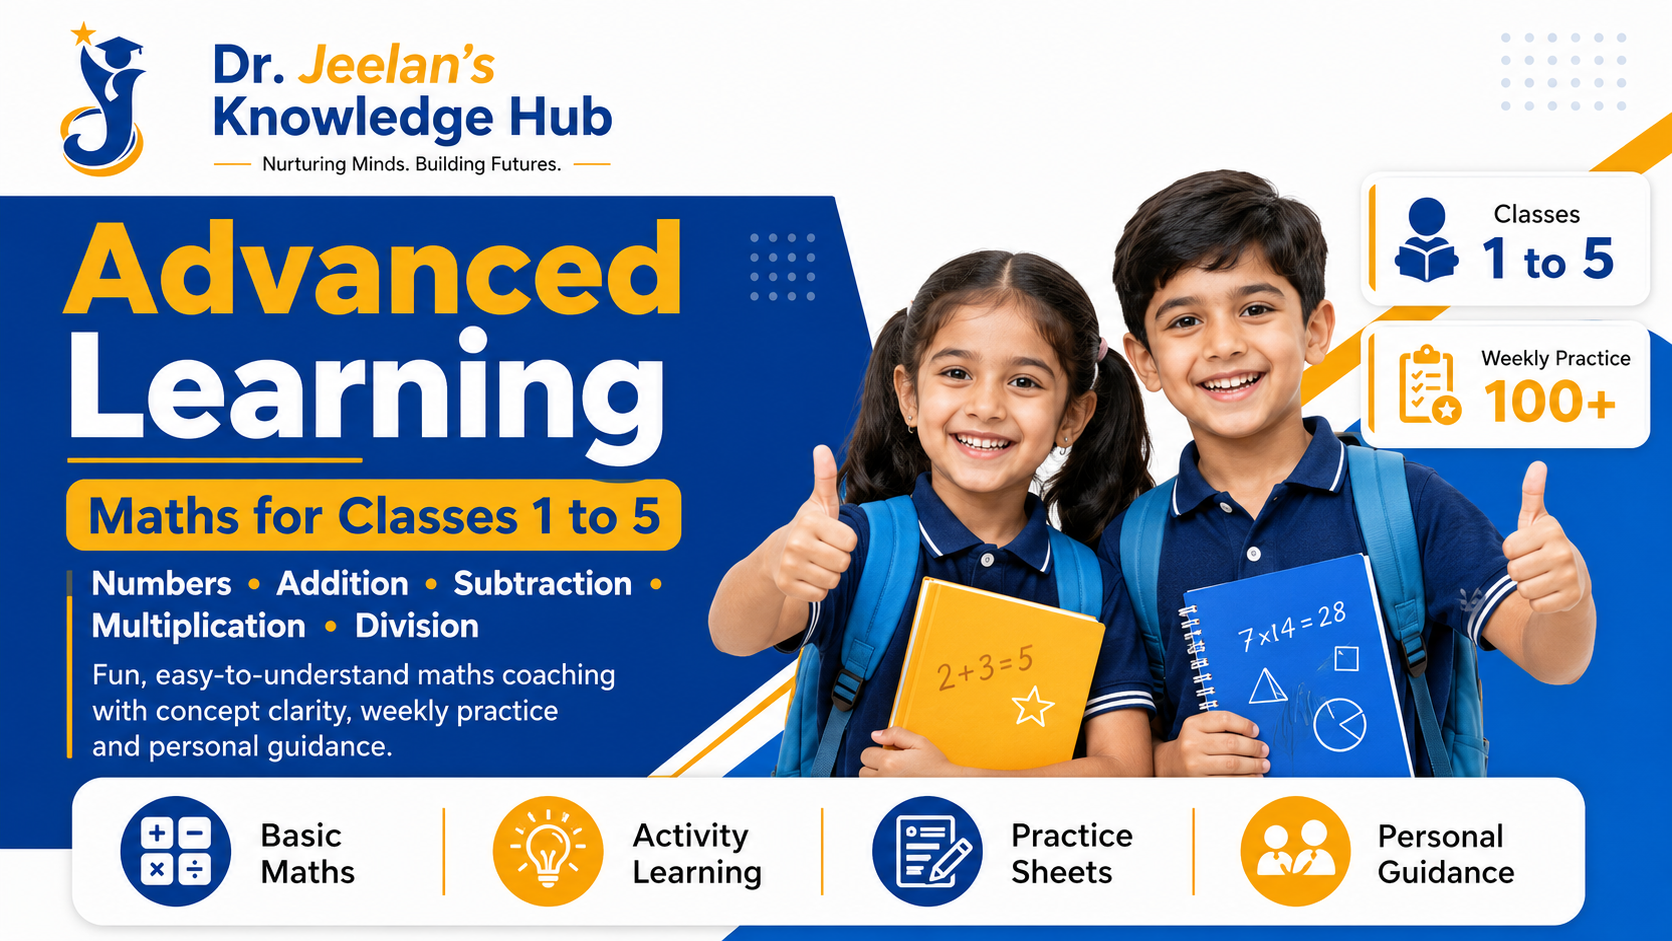
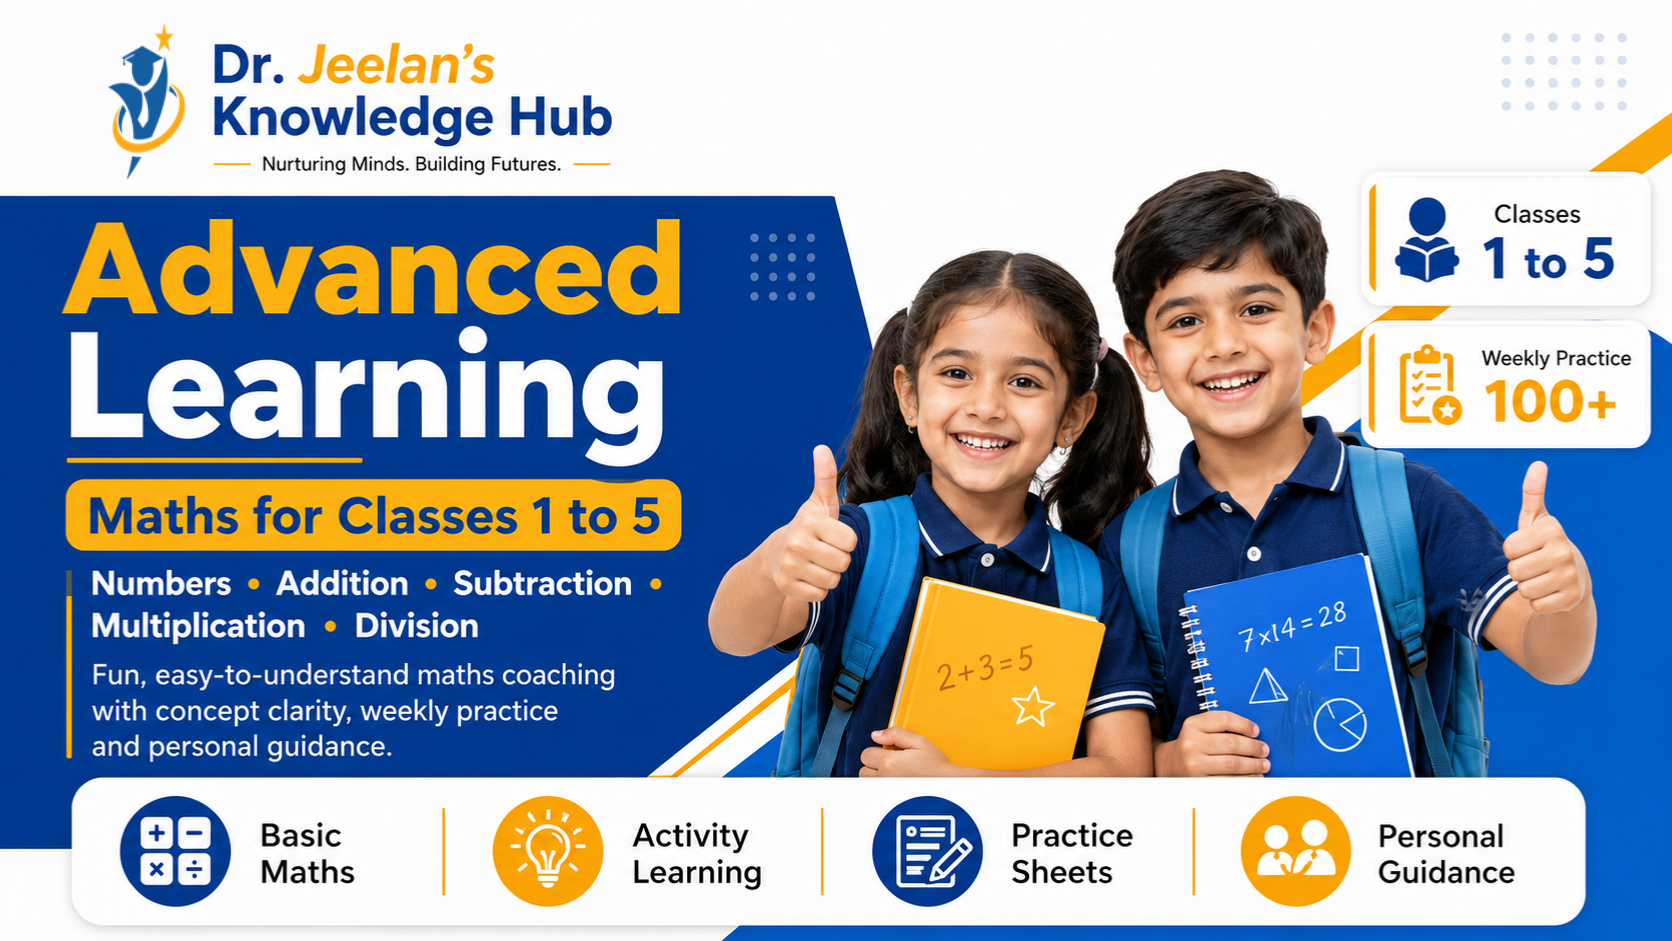
Dfkk

diff --git a/.claude/skills/framer-motion/SKILL.md b/.claude/skills/framer-motion/SKILL.md
@@ -1,0 +1,205 @@
+---
+name: framer-motion
+description: Expert guidelines for building performant animations with Framer Motion/Motion library in React applications
+---
+
+# Framer Motion / Motion Animation Guidelines
+
+You are an expert in Framer Motion (now Motion), React, and TypeScript. Follow these guidelines when creating animations.
+
+## Core Principles
+
+### Import from the Correct Package
+- Use `import { motion } from "motion/react"` for React projects (not "framer-motion" - this is outdated)
+- The library was renamed from Framer Motion to Motion
+- Always use the latest Motion API
+
+### Performance-First Approach
+- Animate transform properties (`x`, `y`, `scale`, `rotate`) and `opacity` for best performance
+- These properties can be hardware-accelerated and don't trigger layout recalculations
+- Avoid animating properties that cause layout shifts like `width`, `height`, `top`, `left`, `margin`, `padding`
+
+## Hardware Acceleration
+
+### Use will-change Properly
+```tsx
+// When animating transforms
+<motion.div
+  style={{ willChange: "transform" }}
+  animate={{ x: 100, y: 50, scale: 1.2 }}
+/>
+
+// When animating other GPU-accelerated properties
+<motion.div
+  style={{ willChange: "opacity, transform" }}
+  animate={{ opacity: 0.5, x: 100 }}
+/>
+```
+
+### Properties to Add to willChange
+- `transform` - for x, y, scale, rotate, skew
+- `opacity` - for opacity animations
+- `filter` - for blur, brightness, etc.
+- `clipPath` - for clip-path animations
+- `backgroundColor` - for background color transitions
+
+## Animation Best Practices
+
+### Use Variants for Complex Animations
+```tsx
+const containerVariants = {
+  hidden: { opacity: 0 },
+  visible: {
+    opacity: 1,
+    transition: {
+      staggerChildren: 0.1
+    }
+  }
+};
+
+const itemVariants = {
+  hidden: { y: 20, opacity: 0 },
+  visible: { y: 0, opacity: 1 }
+};
+```
+
+### Use layoutId for Shared Element Transitions
+```tsx
+<motion.div layoutId="shared-element" />
+```
+
+### Prefer spring Animations
+```tsx
+// Springs feel more natural than duration-based animations
+<motion.div
+  animate={{ x: 100 }}
+  transition={{ type: "spring", stiffness: 300, damping: 30 }}
+/>
+```
+
+## React Integration
+
+### Memoization for Performance
+```tsx
+// Memoize animation variants
+const variants = useMemo(() => ({
+  hidden: { opacity: 0 },
+  visible: { opacity: 1 }
+}), []);
+
+// Memoize callbacks
+const handleAnimationComplete = useCallback(() => {
+  // handler logic
+}, []);
+```
+
+### Avoid Inline Style Objects
+```tsx
+// Bad - creates new object on every render
+<motion.div style={{ willChange: "transform" }} />
+
+// Good - define outside or memoize
+const style = { willChange: "transform" };
+<motion.div style={style} />
+```
+
+## Accessibility
+
+### Respect Reduced Motion Preferences
+```tsx
+import { useReducedMotion } from "motion/react";
+
+function Component() {
+  const shouldReduceMotion = useReducedMotion();
+
+  return (
+    <motion.div
+      animate={{ x: shouldReduceMotion ? 0 : 100 }}
+      transition={{ duration: shouldReduceMotion ? 0 : 0.3 }}
+    />
+  );
+}
+```
+
+## Gesture Animations
+
+### Use Gesture Props Correctly
+```tsx
+<motion.button
+  whileHover={{ scale: 1.05 }}
+  whileTap={{ scale: 0.95 }}
+  transition={{ type: "spring", stiffness: 400, damping: 17 }}
+/>
+```
+
+## Scroll Animations
+
+### Use useScroll for Scroll-Linked Animations
+```tsx
+import { useScroll, useTransform, motion } from "motion/react";
+
+function ParallaxComponent() {
+  const { scrollYProgress } = useScroll();
+  const y = useTransform(scrollYProgress, [0, 1], [0, -100]);
+
+  return <motion.div style={{ y }} />;
+}
+```
+
+## Exit Animations
+
+### Use AnimatePresence for Exit Animations
+```tsx
+import { AnimatePresence, motion } from "motion/react";
+
+<AnimatePresence mode="wait">
+  {isVisible && (
+    <motion.div
+      key="modal"
+      initial={{ opacity: 0 }}
+      animate={{ opacity: 1 }}
+      exit={{ opacity: 0 }}
+    />
+  )}
+</AnimatePresence>
+```
+
+## Common Patterns
+
+### Staggered List Animation
+```tsx
+<motion.ul
+  initial="hidden"
+  animate="visible"
+  variants={{
+    visible: { transition: { staggerChildren: 0.07 } }
+  }}
+>
+  {items.map((item) => (
+    <motion.li
+      key={item.id}
+      variants={{
+        hidden: { opacity: 0, y: 20 },
+        visible: { opacity: 1, y: 0 }
+      }}
+    />
+  ))}
+</motion.ul>
+```
+
+### Page Transitions
+```tsx
+const pageTransition = {
+  initial: { opacity: 0, x: -20 },
+  animate: { opacity: 1, x: 0 },
+  exit: { opacity: 0, x: 20 },
+  transition: { duration: 0.3 }
+};
+```
+
+## Performance Debugging
+
+- Use React DevTools to inspect re-renders
+- Use Chrome DevTools Performance tab to identify animation jank
+- Target 60fps minimum, 120fps on high refresh rate displays
+- Test on actual devices, especially mid-range Android phones
